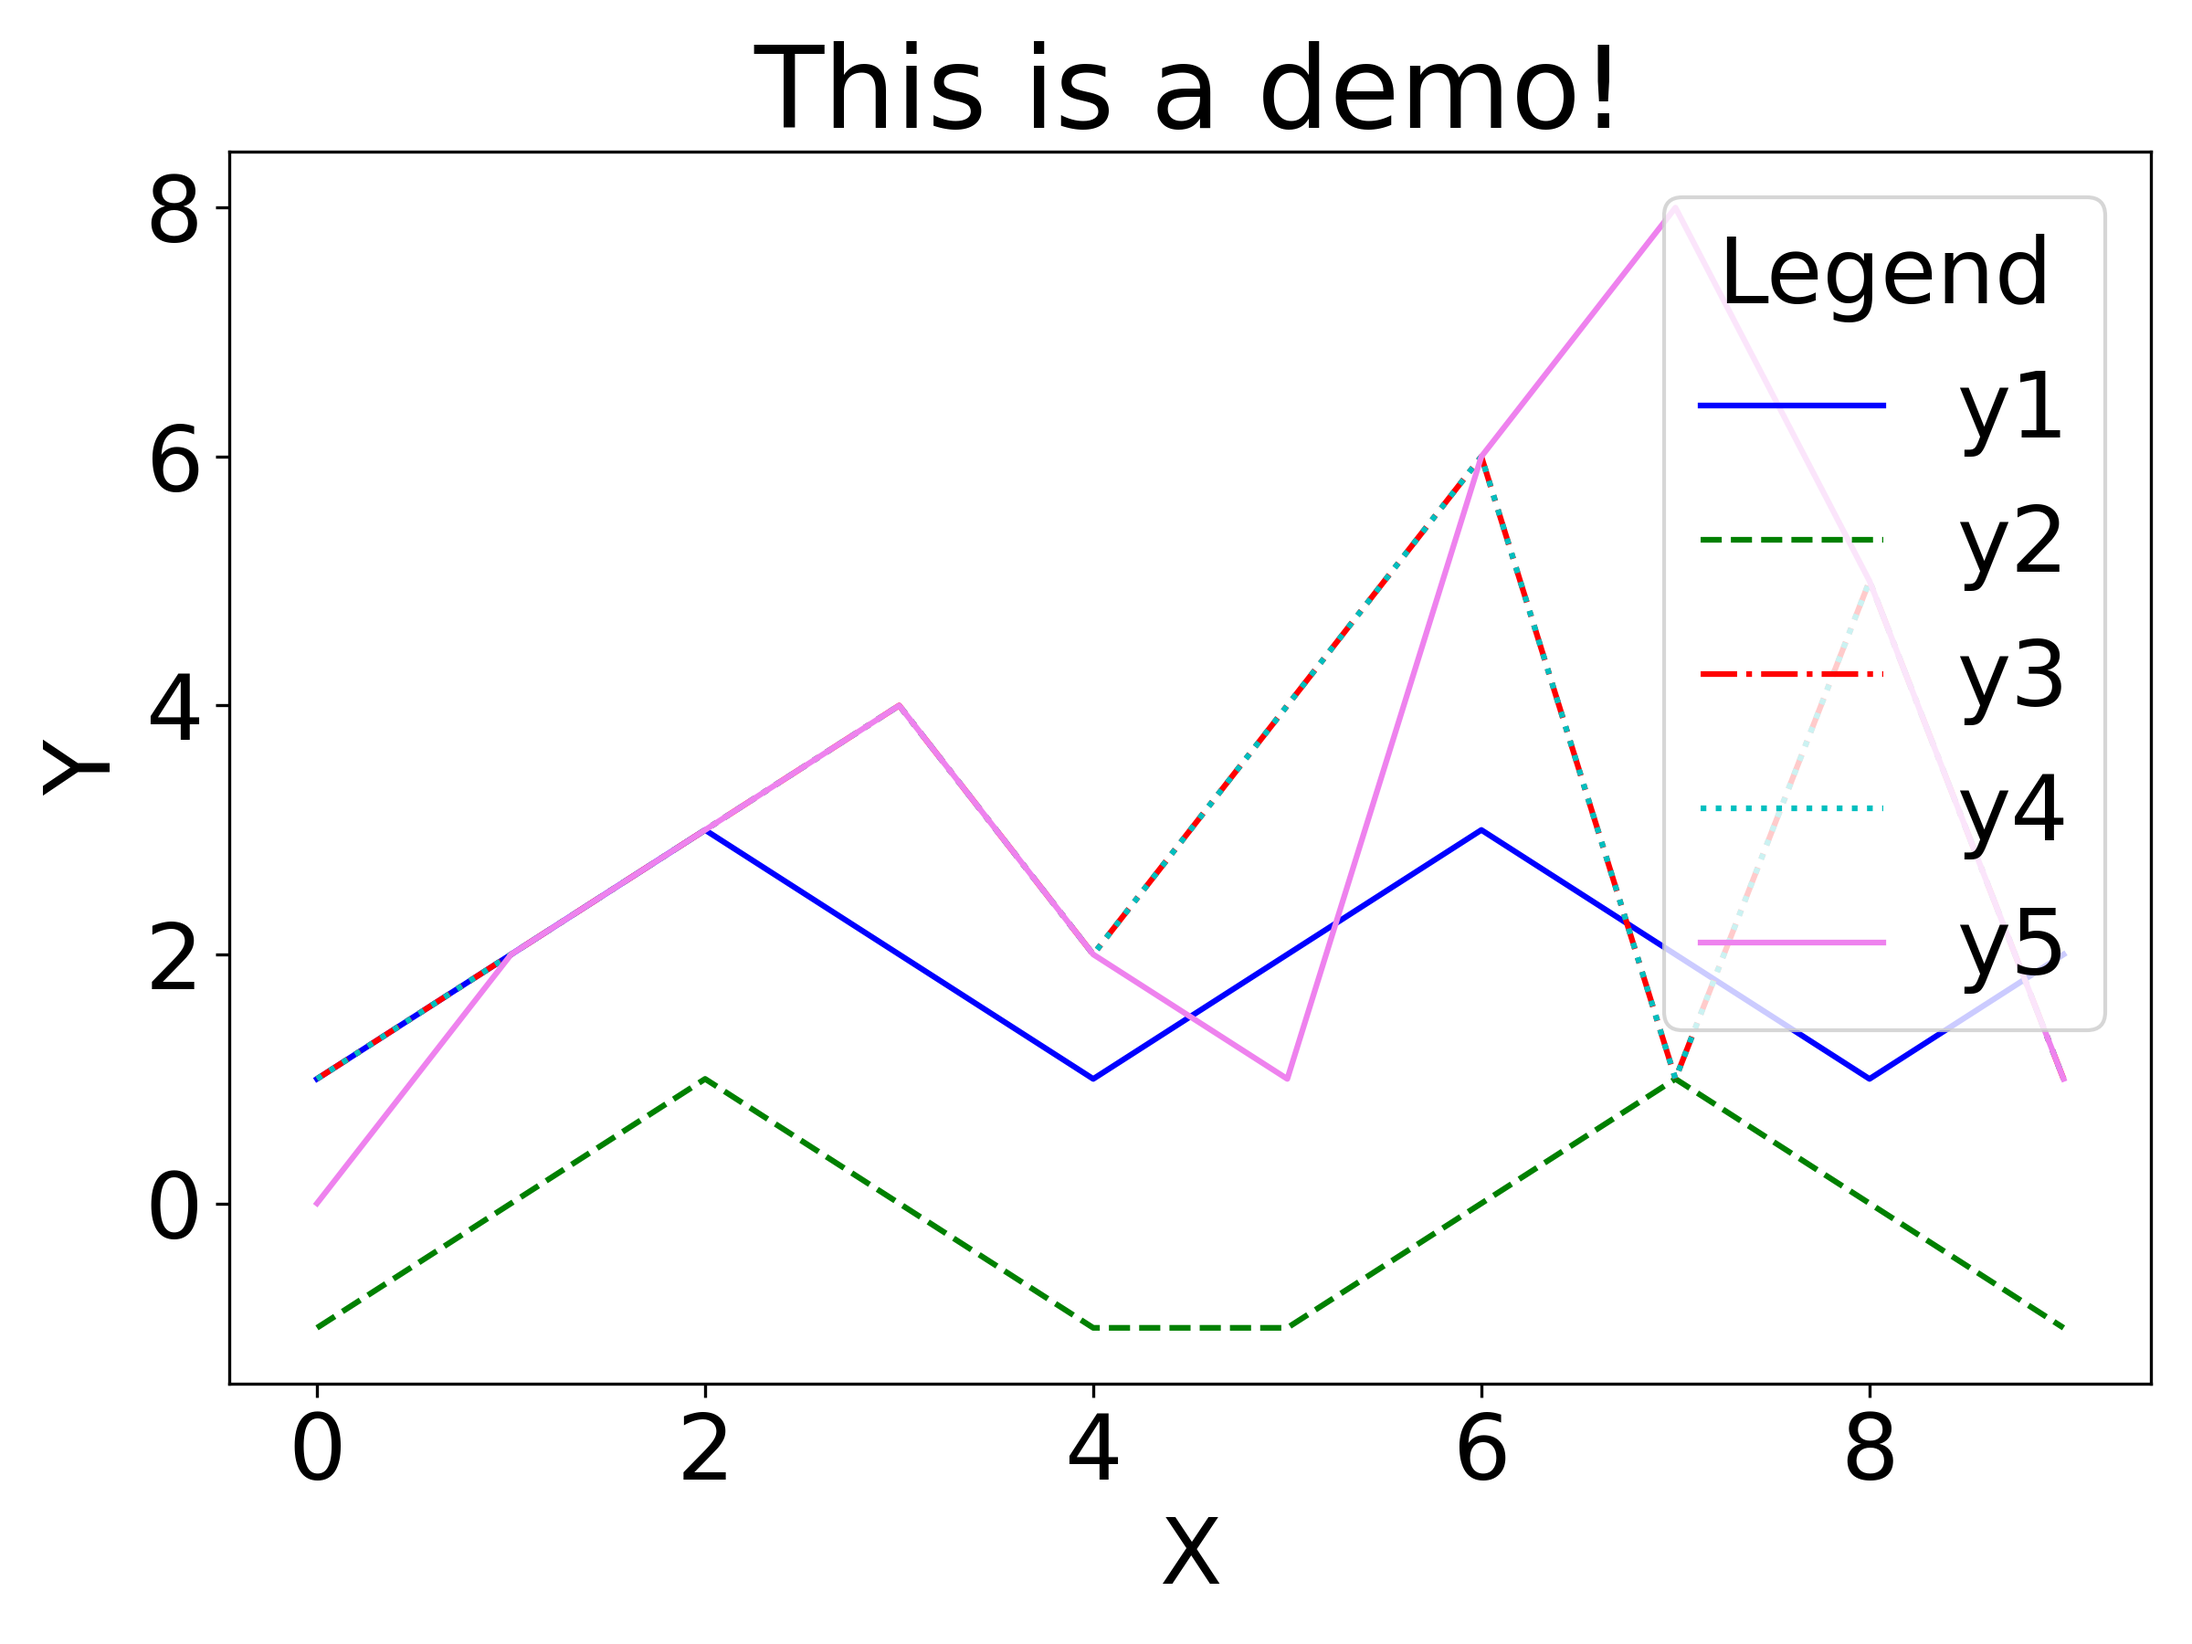
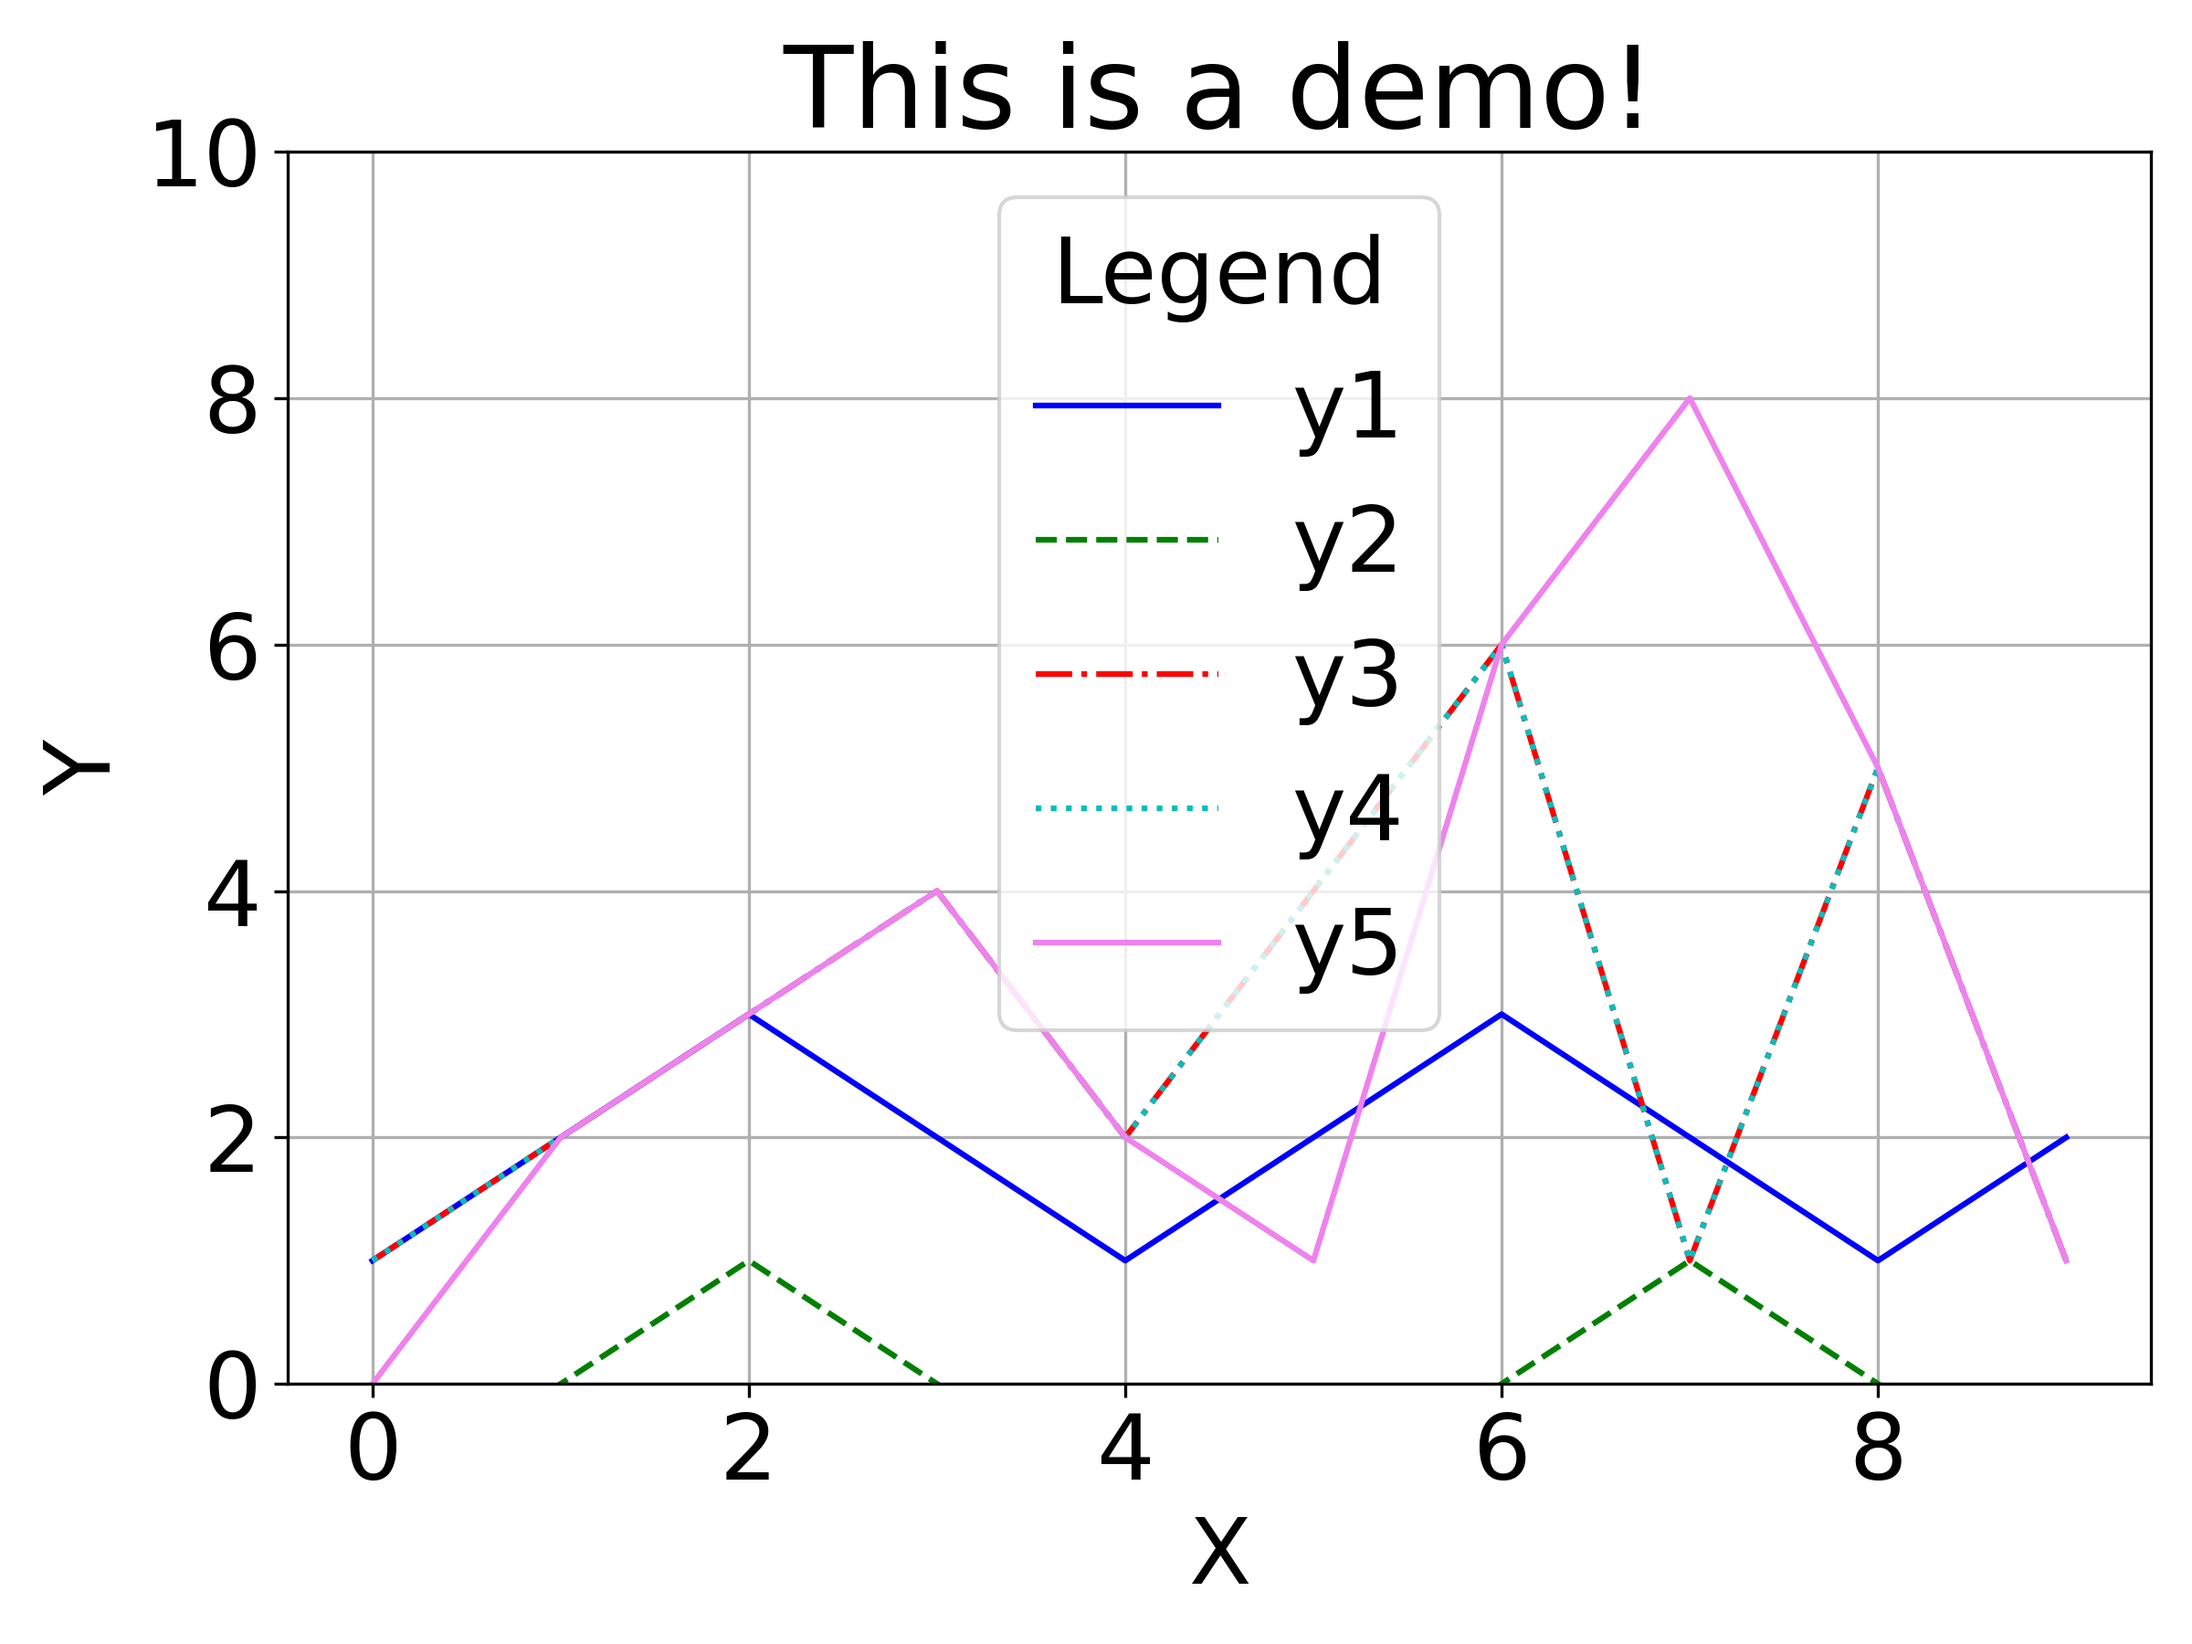
Update

diff --git a/pyplotter/plot.py b/pyplotter/plot.py
@@ -32,7 +32,7 @@ class Plotter(Pyplot_config):
         pass
 
     # 用于画折线图, 有几条线就画几个
-    def plot_lines(self, x_list=None, y_list=None, legend_label_list=None, x_label="x", y_label="y", title=None,
+    def plot_lines(self, x_list=None, y_list=None, legend_label_list=None, x_label="x", y_label="y", title=None, x_grid=False, y_grid=True, y_min=None, y_max=None,
                    save_root="./", filename="demo.png", is_show=False,
                    legend_loc="best", legend_title="legend"):
         # 如果 save_root 没有创建，则创建一个
@@ -64,6 +64,22 @@ class Plotter(Pyplot_config):
         plt.xticks(fontsize=self.tick_size)
         plt.yticks(fontsize=self.tick_size)
 
+        # 网格线
+        if x_grid and y_grid:
+            cmd = "both"
+            plt.grid(axis=cmd)
+        else:
+            if x_grid:
+                cmd = "x"
+                plt.grid(axis=cmd)
+            if y_grid:
+                cmd = "y"
+                plt.grid(axis=cmd)
+
+        # 设置ylim
+        if y_min != None and y_max != None:
+            plt.ylim(y_min, y_max)
+
         plt.tight_layout()
         savepath = os.path.join(save_root, filename)
         print(f"图片保存到:{savepath}")
@@ -75,7 +91,7 @@ class Plotter(Pyplot_config):
     # 绘制条形图
     def plot_bars(self, x_label="x", y_label="y", legend_title="legend", legend_ncol=1, bbox_to_anchor=None,
                   legend_loc="best", x_data=None, bar_data_list=None, legend_label_list=None, y_min=None, y_max=None,
-                  save_root="./", filename="demo.png", is_hatch=False,
+                  x_grid=False, y_grid=True, save_root="./", filename="demo.png", is_hatch=False,
                   is_show=False):
         fig = plt.figure(figsize=self.figsize, dpi=self.dpi)
         ax = plt.subplot(111)
@@ -106,6 +122,18 @@ class Plotter(Pyplot_config):
                             bbox_to_anchor=bbox_to_anchor)
         legend.get_title().set_fontsize(fontsize=self.legend_size)
         legend._legend_box.align = "left"
+
+        # 网格线
+        if x_grid and y_grid:
+            cmd = "both"
+            plt.grid(axis=cmd)
+        else:
+            if x_grid:
+                cmd = "x"
+                plt.grid(axis=cmd)
+            if y_grid:
+                cmd = "y"
+                plt.grid(axis=cmd)
 
         # 设置ylim
         if y_min != None and y_max != None:
@@ -228,8 +256,8 @@ class Plotter(Pyplot_config):
         ax.set_xticks([pos + offset for pos in position])
 
 
-        ax.set_xticklabels(x, fontsize=14, rotation=0)
-        ax.tick_params(axis='both', which='major', labelsize=14)
+        ax.set_xticklabels(x, fontsize=self.label_size, rotation=0)
+        ax.tick_params(axis='both', which='major', labelsize=self.label_size)
 
 
         plt.xticks(size=self.label_size)
@@ -336,6 +364,10 @@ if __name__ == "__main__":
         legend_label_list=["y1","y2","y3","y4","y5"],
         x_label="X",
         y_label="Y",
+        x_grid=True,
+        y_grid=True,
+        y_min=0,
+        y_max=10,
         legend_loc="best",
         legend_title="Legend",
         title="This is a demo!",
